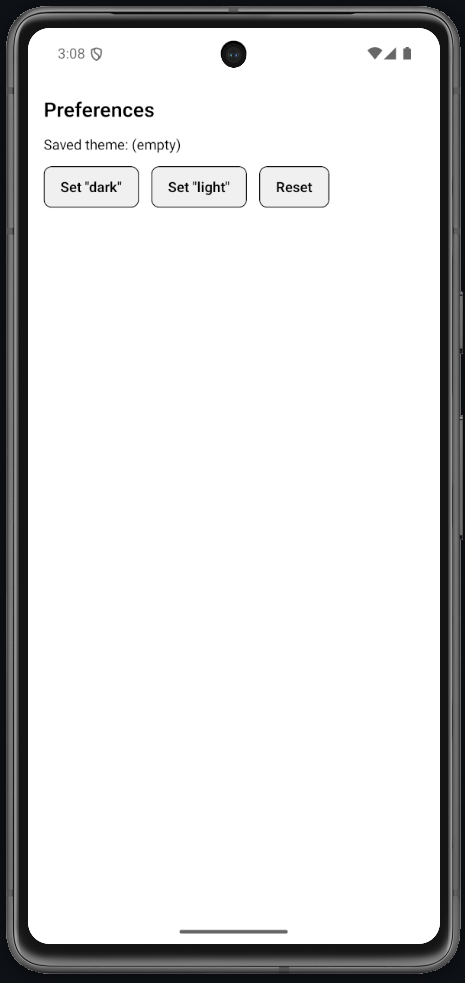
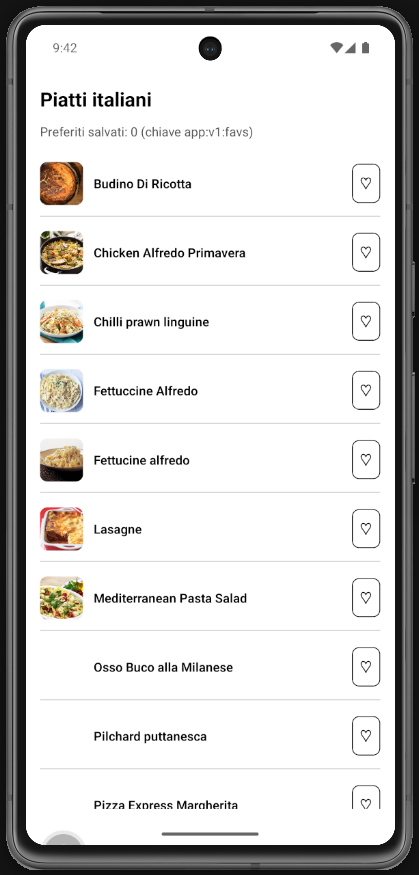
lab 16 screenshots

diff --git a/labs/16_local-persistence-with-asyncstorage.md b/labs/16_local-persistence-with-asyncstorage.md
@@ -49,13 +49,13 @@ npx expo install @react-native-async-storage/async-storage
 
 ## Screenshot attesi
 
-**Preferito attivo - cuore pieno su un piatto**
+**Preferito attivo - cuore vuoto**
 
 ![Lab 16 - Preferiti](../labs/imgs/lab_16_main.png)
 
-**Preferiti persistiti - riavvio app, cuore ancora attivo**
+**Preferiti persistiti - riavvio app, cuore pieno e ancora attivo**
 
-![Lab 16 - Persistenza](../labs/imgs/lab_16_main_light.png)
+![Lab 16 - Persistenza](../labs/imgs/lab_16_main_cuore_pieno.png)
 
 ## Consegna minima
 